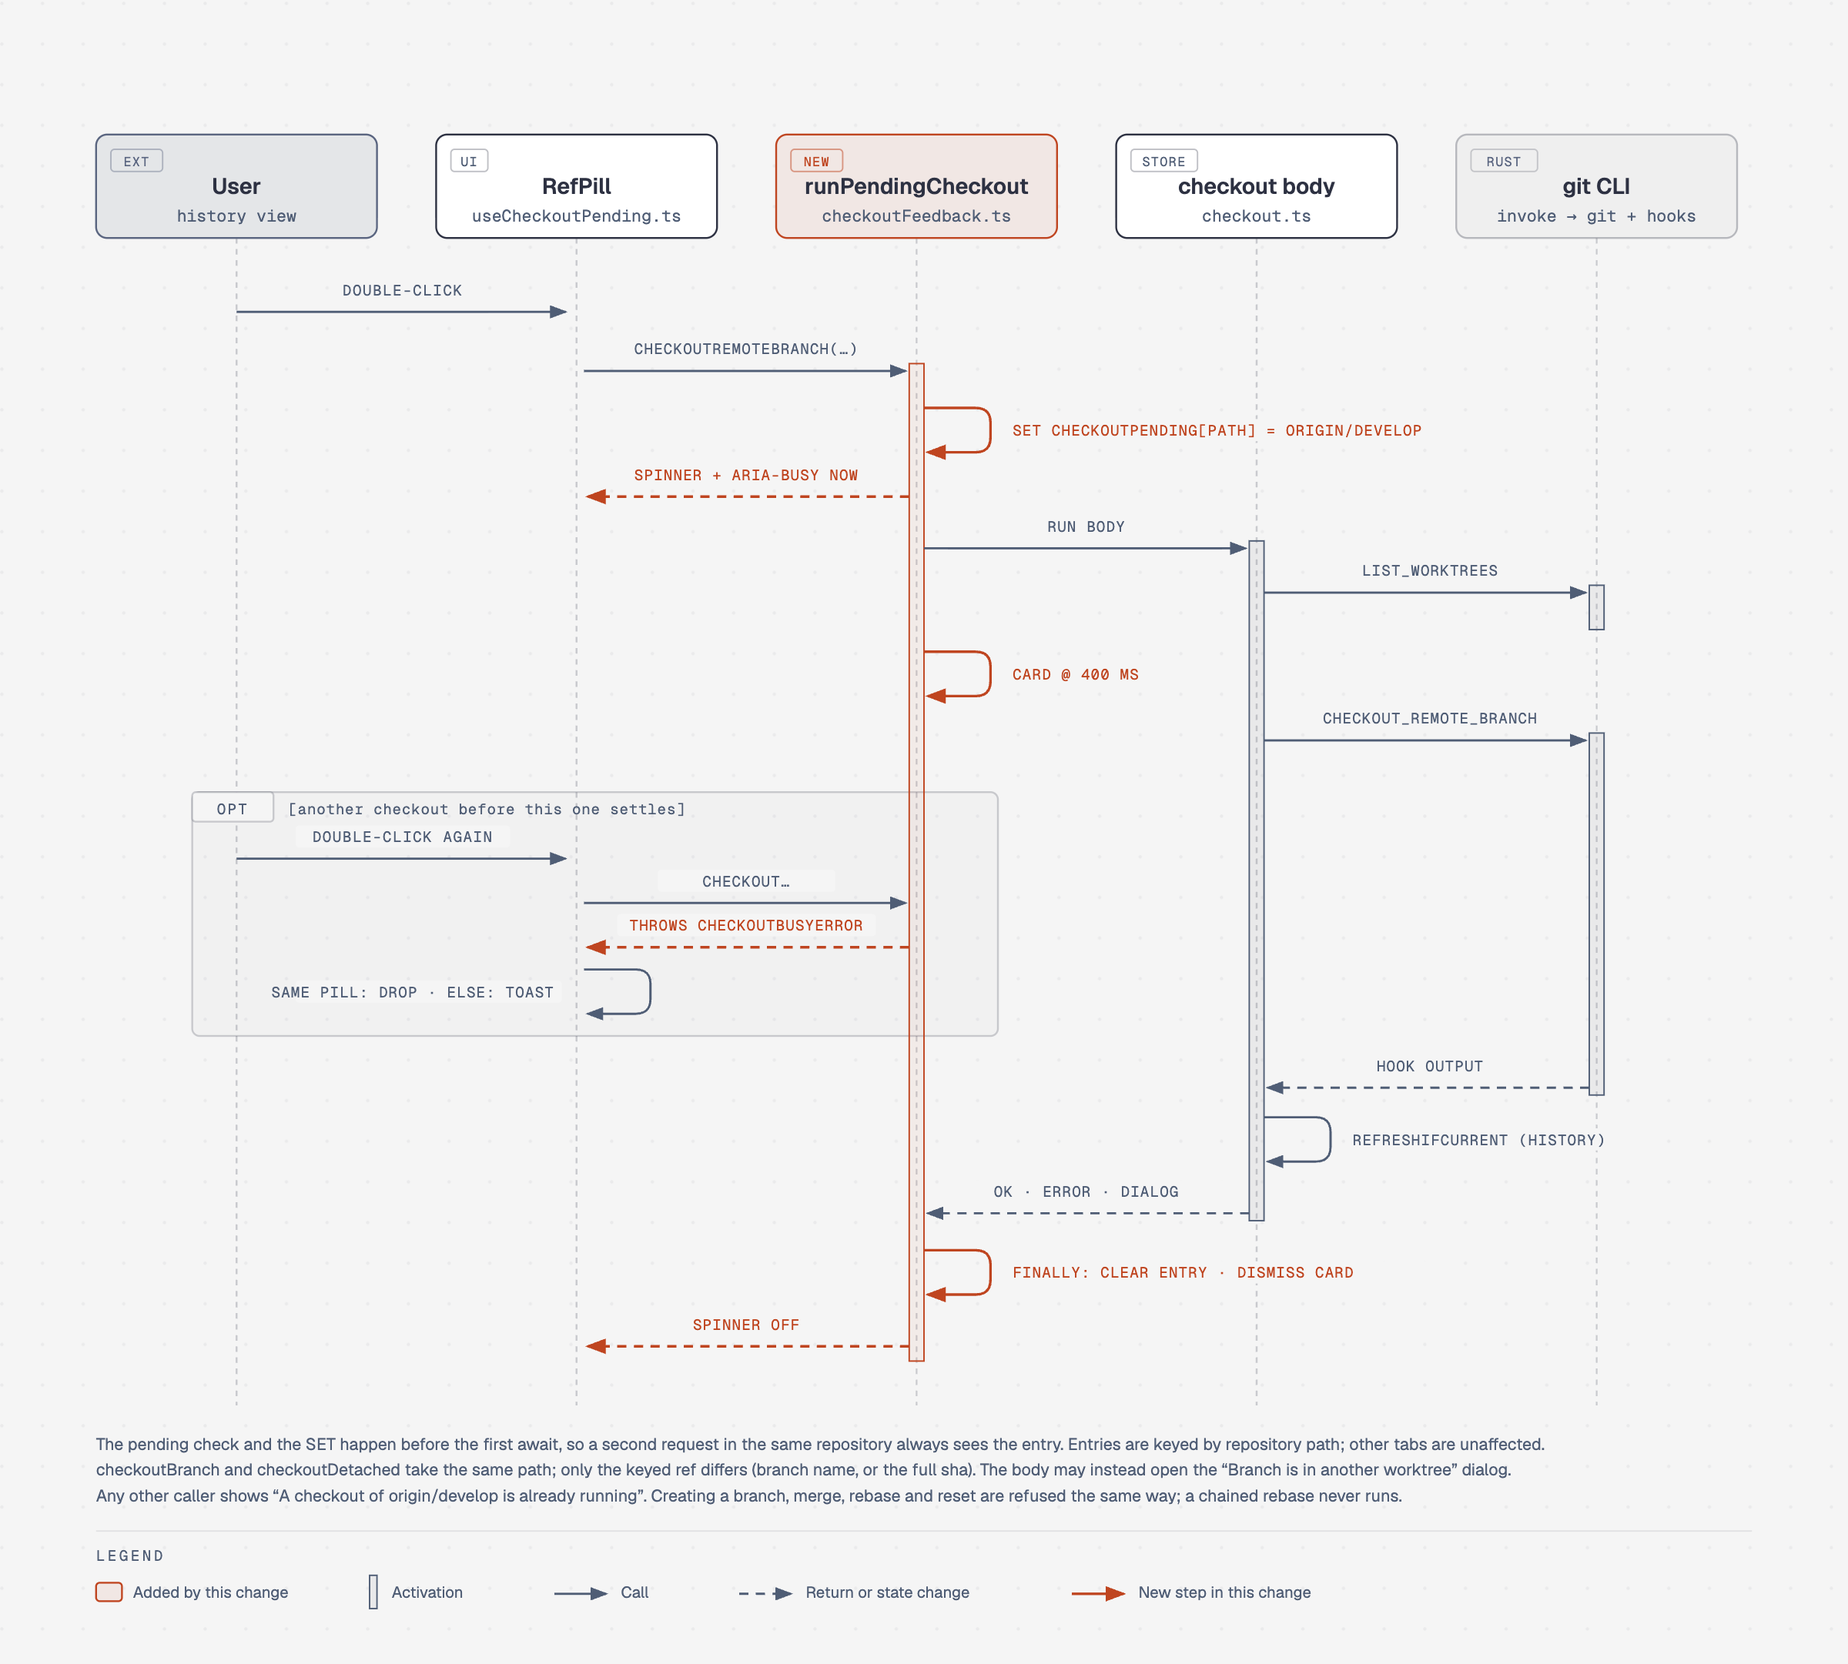
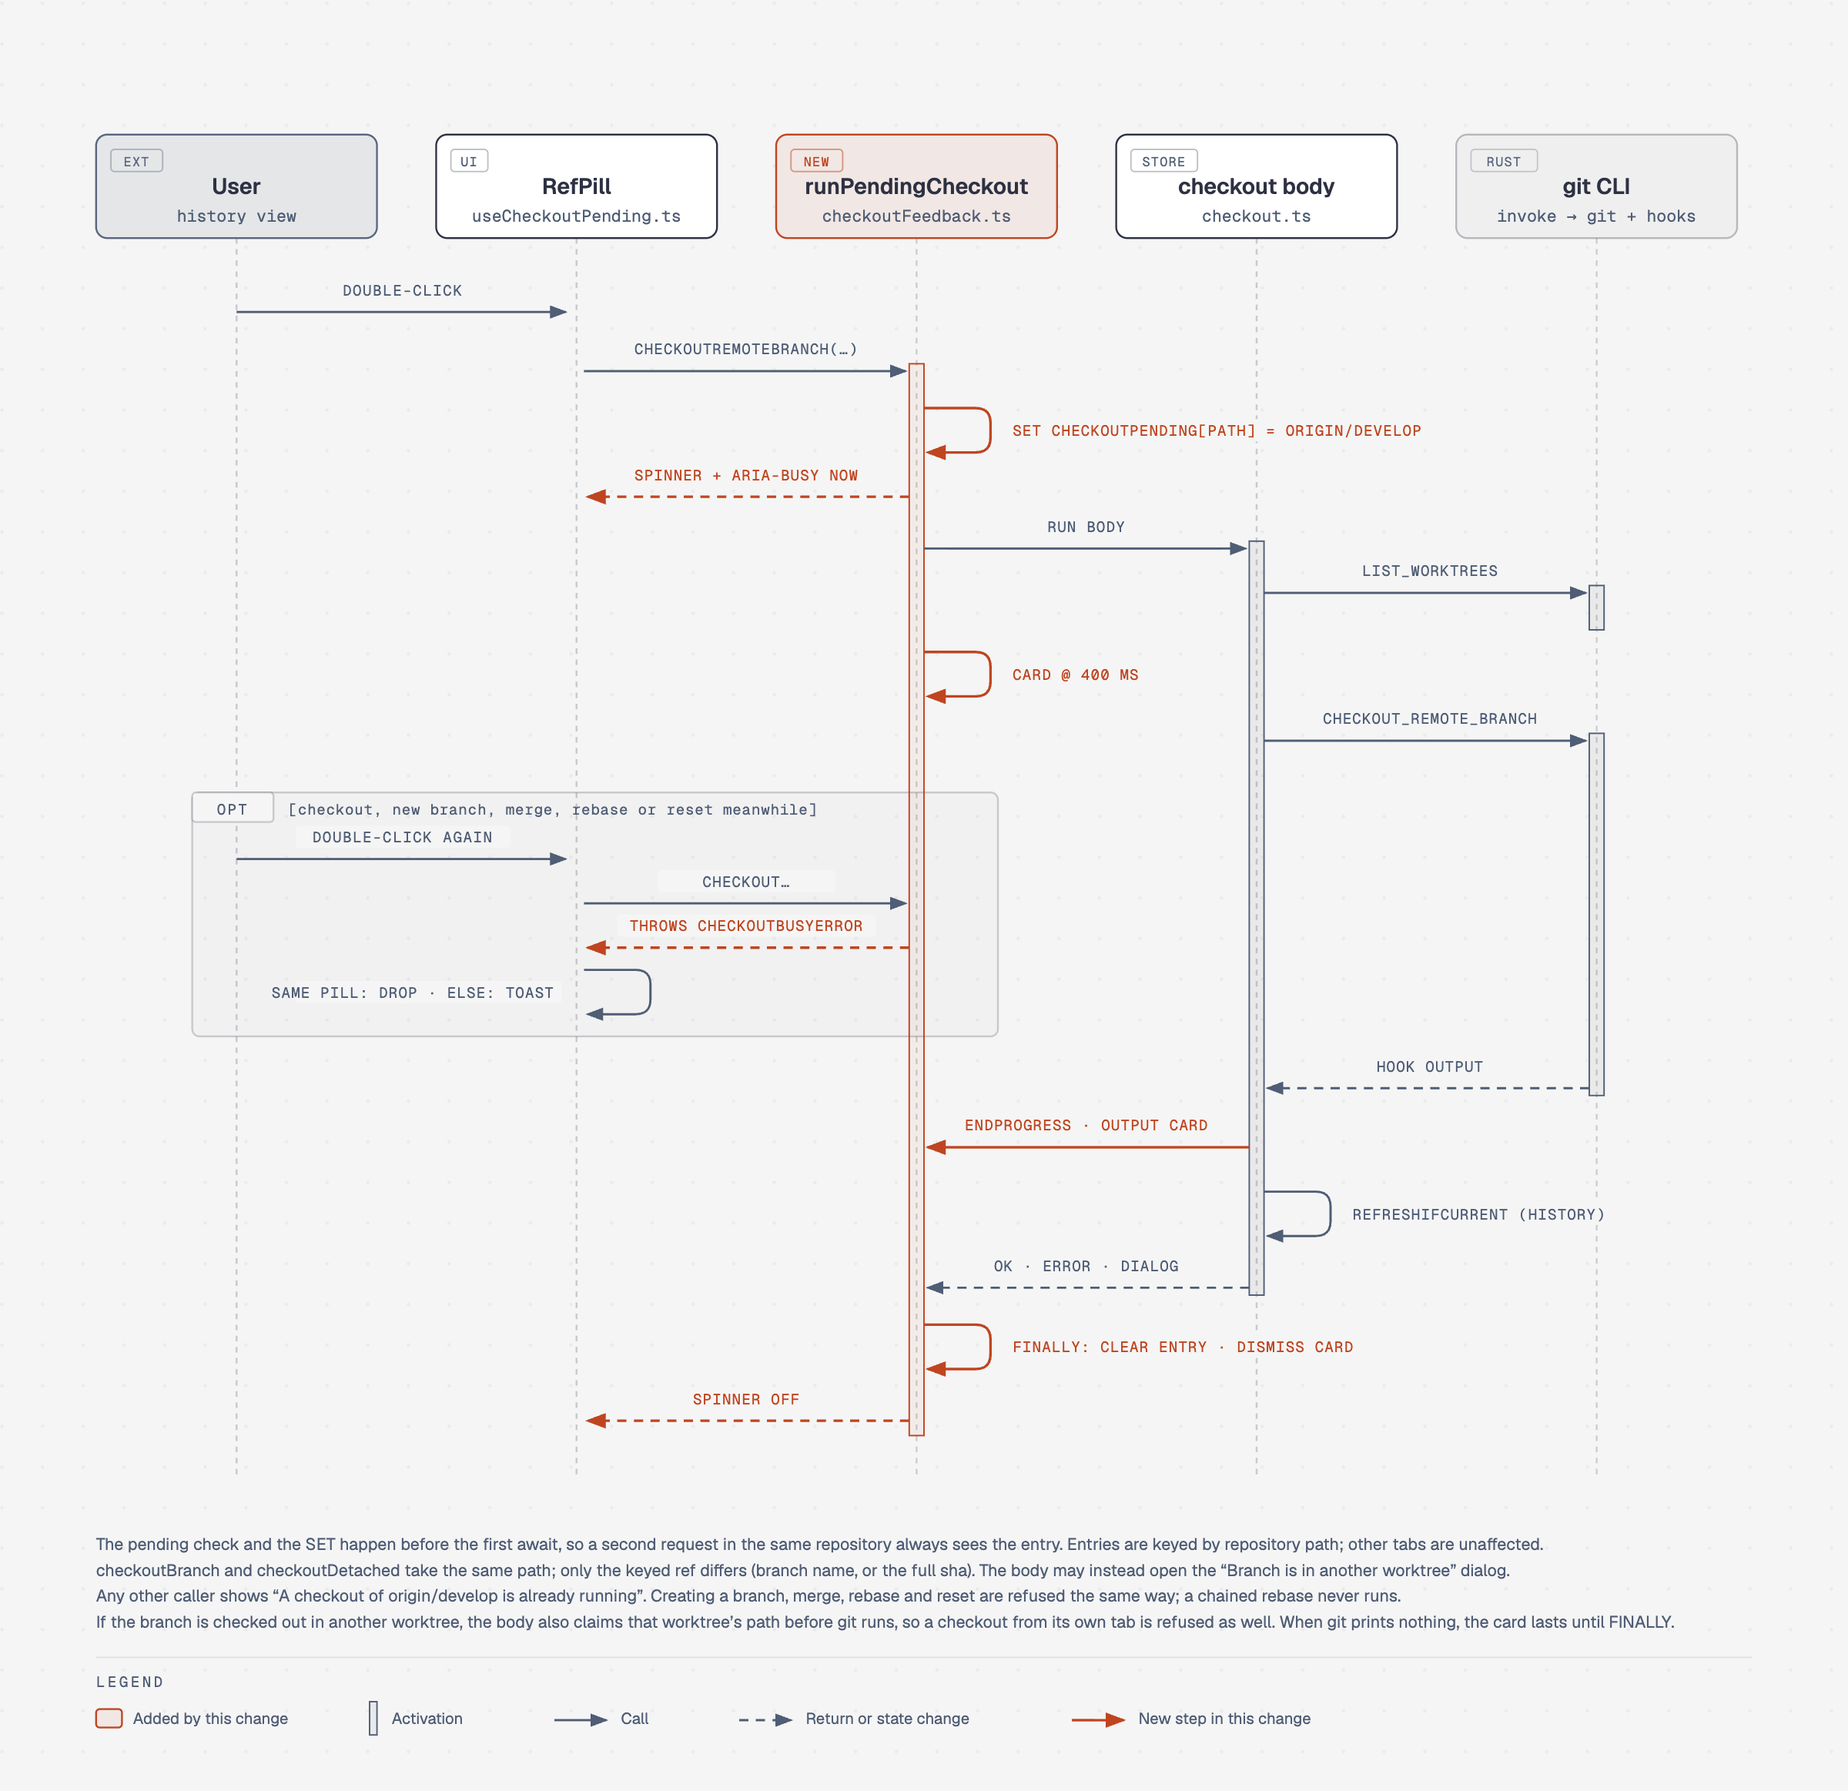
docs(diagrams): Draw the follow-up steps in the checkout sequence
The hook output now ends the progress card (endProgress), the busy
frame covers creating a branch, merge, rebase and reset, and a footnote
explains the claim on another worktree's path.

diff --git a/docs/diagrams/checkout-pending-feedback/checkout-sequence.html b/docs/diagrams/checkout-pending-feedback/checkout-sequence.html
@@ -59,9 +59,9 @@
     <h1>Checking out a ref, with a busy guard</h1>
 
     <div class="diagram-container">
-      <svg viewBox="0 0 1000 900" xmlns="http://www.w3.org/2000/svg" role="img" aria-labelledby="checkout-sequence-title checkout-sequence-desc">
+      <svg viewBox="0 0 1000 968" xmlns="http://www.w3.org/2000/svg" role="img" aria-labelledby="checkout-sequence-title checkout-sequence-desc">
         <title id="checkout-sequence-title">Checking out a ref, with a busy guard</title>
-        <desc id="checkout-sequence-desc">A double-click on a remote ref pill calls checkoutRemoteBranch, which goes through runPendingCheckout. It records the ref as pending for this repository, so the pill shows a spinner at once, and starts a progress card that appears after 400 ms. The checkout body then probes worktrees, runs git with its hooks, and refreshes the history. A second checkout request while this runs is refused with CheckoutBusyError: a repeat double-click on the same pill drops it, any other request shows which checkout is running. When the body settles, whether it succeeded, failed or opened the worktree dialog, a finally block clears the pending entry and dismisses the card, and the spinner goes away.</desc>
+        <desc id="checkout-sequence-desc">A double-click on a remote ref pill calls checkoutRemoteBranch, which goes through runPendingCheckout. It records the ref as pending for this repository, so the pill shows a spinner at once, and starts a progress card that appears after 400 ms. The checkout body then probes worktrees, runs git with its hooks, and refreshes the history. A second checkout request while this runs is refused with CheckoutBusyError: a repeat double-click on the same pill drops it, any other request shows which checkout is running. When git returns with hook output, the body ends the progress card and posts the output card. Creating a branch, merge, rebase and reset are refused the same way while it runs. When the body settles, whether it succeeded, failed or opened the worktree dialog, a finally block clears the pending entry and dismisses the card, and the spinner goes away.</desc>
         <defs>
           <pattern id="dots" width="22" height="22" patternUnits="userSpaceOnUse">
             <circle cx="1" cy="1" r="0.9" fill="rgba(45,49,66,0.10)"/>
@@ -74,21 +74,21 @@
         <rect width="100%" height="100%" fill="url(#dots)" opacity="0.55"/>
 
         <!-- LIFELINES: centers 128, 312, 496, 680, 864 -->
-        <line x1="128" y1="128" x2="128" y2="760" stroke="rgba(45,49,66,0.22)" stroke-width="1" stroke-dasharray="3,3"/>
-        <line x1="312" y1="128" x2="312" y2="760" stroke="rgba(45,49,66,0.22)" stroke-width="1" stroke-dasharray="3,3"/>
-        <line x1="496" y1="128" x2="496" y2="760" stroke="rgba(45,49,66,0.22)" stroke-width="1" stroke-dasharray="3,3"/>
-        <line x1="680" y1="128" x2="680" y2="760" stroke="rgba(45,49,66,0.22)" stroke-width="1" stroke-dasharray="3,3"/>
-        <line x1="864" y1="128" x2="864" y2="760" stroke="rgba(45,49,66,0.22)" stroke-width="1" stroke-dasharray="3,3"/>
+        <line x1="128" y1="128" x2="128" y2="800" stroke="rgba(45,49,66,0.22)" stroke-width="1" stroke-dasharray="3,3"/>
+        <line x1="312" y1="128" x2="312" y2="800" stroke="rgba(45,49,66,0.22)" stroke-width="1" stroke-dasharray="3,3"/>
+        <line x1="496" y1="128" x2="496" y2="800" stroke="rgba(45,49,66,0.22)" stroke-width="1" stroke-dasharray="3,3"/>
+        <line x1="680" y1="128" x2="680" y2="800" stroke="rgba(45,49,66,0.22)" stroke-width="1" stroke-dasharray="3,3"/>
+        <line x1="864" y1="128" x2="864" y2="800" stroke="rgba(45,49,66,0.22)" stroke-width="1" stroke-dasharray="3,3"/>
 
         <!-- FRAME: second request while pending -->
         <rect x="104" y="428" width="436" height="132" rx="4" fill="rgba(45,49,66,0.02)" stroke="rgba(45,49,66,0.22)" stroke-width="1"/>
         <rect x="104" y="428" width="44" height="16" rx="2" fill="#f5f5f5" stroke="rgba(45,49,66,0.22)" stroke-width="1"/>
         <text x="126" y="440" fill="#4f5d75" font-size="8" font-family="'Geist Mono', monospace" text-anchor="middle" letter-spacing="0.12em">OPT</text>
-        <text x="156" y="440" fill="#4f5d75" font-size="8" font-family="'Geist Mono', monospace" letter-spacing="0.04em">[another checkout before this one settles]</text>
+        <text x="156" y="440" fill="#4f5d75" font-size="8" font-family="'Geist Mono', monospace" letter-spacing="0.04em">[checkout, new branch, merge, rebase or reset meanwhile]</text>
 
         <!-- ACTIVATIONS -->
-        <rect x="492" y="196" width="8" height="540" fill="rgba(191,69,32,0.06)" stroke="#bf4520" stroke-width="0.8"/>
-        <rect x="676" y="292" width="8" height="368" fill="rgba(45,49,66,0.06)" stroke="#4f5d75" stroke-width="0.8"/>
+        <rect x="492" y="196" width="8" height="580" fill="rgba(191,69,32,0.06)" stroke="#bf4520" stroke-width="0.8"/>
+        <rect x="676" y="292" width="8" height="408" fill="rgba(45,49,66,0.06)" stroke="#4f5d75" stroke-width="0.8"/>
         <rect x="860" y="316" width="8" height="24" fill="rgba(45,49,66,0.06)" stroke="#4f5d75" stroke-width="0.8"/>
         <rect x="860" y="396" width="8" height="196" fill="rgba(45,49,66,0.06)" stroke="#4f5d75" stroke-width="0.8"/>
 
@@ -109,10 +109,12 @@
         <path d="M 316 524 L 344 524 Q 352 524 352 532 L 352 540 Q 352 548 344 548 L 318 548" fill="none" stroke="#4f5d75" stroke-width="1.2" marker-end="url(#arrow)"/>
 
         <line x1="860" y1="588" x2="686" y2="588" stroke="#4f5d75" stroke-width="1.2" stroke-dasharray="5,4" marker-end="url(#arrow)"/>
-        <path d="M 684 604 L 712 604 Q 720 604 720 612 L 720 620 Q 720 628 712 628 L 686 628" fill="none" stroke="#4f5d75" stroke-width="1.2" marker-end="url(#arrow)"/>
-        <line x1="676" y1="656" x2="502" y2="656" stroke="#4f5d75" stroke-width="1.2" stroke-dasharray="5,4" marker-end="url(#arrow)"/>
-        <path d="M 500 676 L 528 676 Q 536 676 536 684 L 536 692 Q 536 700 528 700 L 502 700" fill="none" stroke="#bf4520" stroke-width="1.4" marker-end="url(#arrow-accent)"/>
-        <line x1="492" y1="728" x2="318" y2="728" stroke="#bf4520" stroke-width="1.4" stroke-dasharray="5,4" marker-end="url(#arrow-accent)"/>
+        <!-- follow-up: hook output ends the progress card -->
+        <line x1="676" y1="620" x2="502" y2="620" stroke="#bf4520" stroke-width="1.4" marker-end="url(#arrow-accent)"/>
+        <path d="M 684 644 L 712 644 Q 720 644 720 652 L 720 660 Q 720 668 712 668 L 686 668" fill="none" stroke="#4f5d75" stroke-width="1.2" marker-end="url(#arrow)"/>
+        <line x1="676" y1="696" x2="502" y2="696" stroke="#4f5d75" stroke-width="1.2" stroke-dasharray="5,4" marker-end="url(#arrow)"/>
+        <path d="M 500 716 L 528 716 Q 536 716 536 724 L 536 732 Q 536 740 528 740 L 502 740" fill="none" stroke="#bf4520" stroke-width="1.4" marker-end="url(#arrow-accent)"/>
+        <line x1="492" y1="768" x2="318" y2="768" stroke="#bf4520" stroke-width="1.4" stroke-dasharray="5,4" marker-end="url(#arrow-accent)"/>
 
         <!-- MESSAGE LABELS (masked) -->
         <rect x="180" y="150" width="76" height="12" rx="2" fill="#f5f5f5"/>
@@ -151,20 +153,23 @@
         <rect x="160" y="530" width="144" height="12" rx="2" fill="#f5f5f5"/>
         <text x="300" y="539" fill="#4f5d75" font-size="8" font-family="'Geist Mono', monospace" text-anchor="end" letter-spacing="0.06em">SAME PILL: DROP · ELSE: TOAST</text>
 
+        <rect x="520" y="602" width="136" height="12" rx="2" fill="#f5f5f5"/>
+        <text x="588" y="611" fill="#bf4520" font-size="8" font-family="'Geist Mono', monospace" text-anchor="middle" letter-spacing="0.06em">ENDPROGRESS · OUTPUT CARD</text>
+
         <rect x="728" y="570" width="92" height="12" rx="2" fill="#f5f5f5"/>
         <text x="774" y="579" fill="#4f5d75" font-size="8" font-family="'Geist Mono', monospace" text-anchor="middle" letter-spacing="0.06em">HOOK OUTPUT</text>
 
-        <rect x="728" y="610" width="160" height="12" rx="2" fill="#f5f5f5"/>
-        <text x="732" y="619" fill="#4f5d75" font-size="8" font-family="'Geist Mono', monospace" letter-spacing="0.06em">REFRESHIFCURRENT (HISTORY)</text>
+        <rect x="728" y="650" width="160" height="12" rx="2" fill="#f5f5f5"/>
+        <text x="732" y="659" fill="#4f5d75" font-size="8" font-family="'Geist Mono', monospace" letter-spacing="0.06em">REFRESHIFCURRENT (HISTORY)</text>
 
-        <rect x="508" y="638" width="160" height="12" rx="2" fill="#f5f5f5"/>
-        <text x="588" y="647" fill="#4f5d75" font-size="8" font-family="'Geist Mono', monospace" text-anchor="middle" letter-spacing="0.06em">OK · ERROR · DIALOG</text>
+        <rect x="508" y="678" width="160" height="12" rx="2" fill="#f5f5f5"/>
+        <text x="588" y="687" fill="#4f5d75" font-size="8" font-family="'Geist Mono', monospace" text-anchor="middle" letter-spacing="0.06em">OK · ERROR · DIALOG</text>
 
-        <rect x="544" y="682" width="232" height="12" rx="2" fill="#f5f5f5"/>
-        <text x="548" y="691" fill="#bf4520" font-size="8" font-family="'Geist Mono', monospace" letter-spacing="0.06em">FINALLY: CLEAR ENTRY · DISMISS CARD</text>
+        <rect x="544" y="722" width="232" height="12" rx="2" fill="#f5f5f5"/>
+        <text x="548" y="731" fill="#bf4520" font-size="8" font-family="'Geist Mono', monospace" letter-spacing="0.06em">FINALLY: CLEAR ENTRY · DISMISS CARD</text>
 
-        <rect x="356" y="710" width="96" height="12" rx="2" fill="#f5f5f5"/>
-        <text x="404" y="719" fill="#bf4520" font-size="8" font-family="'Geist Mono', monospace" text-anchor="middle" letter-spacing="0.06em">SPINNER OFF</text>
+        <rect x="356" y="750" width="96" height="12" rx="2" fill="#f5f5f5"/>
+        <text x="404" y="759" fill="#bf4520" font-size="8" font-family="'Geist Mono', monospace" text-anchor="middle" letter-spacing="0.06em">SPINNER OFF</text>
 
         <!-- ACTORS -->
         <rect x="52" y="72" width="152" height="56" rx="6" fill="#f5f5f5"/>
@@ -203,23 +208,24 @@
         <text x="864" y="119" fill="#4f5d75" font-size="9" font-family="'Geist Mono', monospace" text-anchor="middle">invoke → git + hooks</text>
 
         <!-- FOOTNOTE -->
-        <text x="52" y="784" fill="#4f5d75" font-size="9" font-family="'Geist', sans-serif">The pending check and the SET happen before the first await, so a second request in the same repository always sees the entry. Entries are keyed by repository path; other tabs are unaffected.</text>
-        <text x="52" y="798" fill="#4f5d75" font-size="9" font-family="'Geist', sans-serif">checkoutBranch and checkoutDetached take the same path; only the keyed ref differs (branch name, or the full sha). The body may instead open the “Branch is in another worktree” dialog.</text>
-        <text x="52" y="812" fill="#4f5d75" font-size="9" font-family="'Geist', sans-serif">Any other caller shows “A checkout of origin/develop is already running”. Creating a branch, merge, rebase and reset are refused the same way; a chained rebase never runs.</text>
+        <text x="52" y="838" fill="#4f5d75" font-size="9" font-family="'Geist', sans-serif">The pending check and the SET happen before the first await, so a second request in the same repository always sees the entry. Entries are keyed by repository path; other tabs are unaffected.</text>
+        <text x="52" y="852" fill="#4f5d75" font-size="9" font-family="'Geist', sans-serif">checkoutBranch and checkoutDetached take the same path; only the keyed ref differs (branch name, or the full sha). The body may instead open the “Branch is in another worktree” dialog.</text>
+        <text x="52" y="866" fill="#4f5d75" font-size="9" font-family="'Geist', sans-serif">Any other caller shows “A checkout of origin/develop is already running”. Creating a branch, merge, rebase and reset are refused the same way; a chained rebase never runs.</text>
+        <text x="52" y="880" fill="#4f5d75" font-size="9" font-family="'Geist', sans-serif">If the branch is checked out in another worktree, the body also claims that worktree’s path before git runs, so a checkout from its own tab is refused as well. When git prints nothing, the card lasts until FINALLY.</text>
 
         <!-- LEGEND -->
-        <line x1="52" y1="828" x2="948" y2="828" stroke="rgba(45,49,66,0.10)" stroke-width="0.8"/>
-        <text x="52" y="844" fill="#4f5d75" font-size="8" font-family="'Geist Mono', monospace" letter-spacing="0.18em">LEGEND</text>
-        <rect x="52" y="856" width="14" height="10" rx="2" fill="rgba(191,69,32,0.08)" stroke="#bf4520" stroke-width="1"/>
-        <text x="72" y="864" fill="#4f5d75" font-size="8.5" font-family="'Geist', sans-serif">Added by this change</text>
-        <rect x="200" y="852" width="4" height="18" fill="rgba(45,49,66,0.06)" stroke="#4f5d75" stroke-width="0.8"/>
-        <text x="212" y="864" fill="#4f5d75" font-size="8.5" font-family="'Geist', sans-serif">Activation</text>
-        <line x1="300" y1="862" x2="328" y2="862" stroke="#4f5d75" stroke-width="1.2" marker-end="url(#arrow)"/>
-        <text x="336" y="864" fill="#4f5d75" font-size="8.5" font-family="'Geist', sans-serif">Call</text>
-        <line x1="400" y1="862" x2="428" y2="862" stroke="#4f5d75" stroke-width="1.2" stroke-dasharray="5,4" marker-end="url(#arrow)"/>
-        <text x="436" y="864" fill="#4f5d75" font-size="8.5" font-family="'Geist', sans-serif">Return or state change</text>
-        <line x1="580" y1="862" x2="608" y2="862" stroke="#bf4520" stroke-width="1.4" marker-end="url(#arrow-accent)"/>
-        <text x="616" y="864" fill="#4f5d75" font-size="8.5" font-family="'Geist', sans-serif">New step in this change</text>
+        <line x1="52" y1="896" x2="948" y2="896" stroke="rgba(45,49,66,0.10)" stroke-width="0.8"/>
+        <text x="52" y="912" fill="#4f5d75" font-size="8" font-family="'Geist Mono', monospace" letter-spacing="0.18em">LEGEND</text>
+        <rect x="52" y="924" width="14" height="10" rx="2" fill="rgba(191,69,32,0.08)" stroke="#bf4520" stroke-width="1"/>
+        <text x="72" y="932" fill="#4f5d75" font-size="8.5" font-family="'Geist', sans-serif">Added by this change</text>
+        <rect x="200" y="920" width="4" height="18" fill="rgba(45,49,66,0.06)" stroke="#4f5d75" stroke-width="0.8"/>
+        <text x="212" y="932" fill="#4f5d75" font-size="8.5" font-family="'Geist', sans-serif">Activation</text>
+        <line x1="300" y1="930" x2="328" y2="930" stroke="#4f5d75" stroke-width="1.2" marker-end="url(#arrow)"/>
+        <text x="336" y="932" fill="#4f5d75" font-size="8.5" font-family="'Geist', sans-serif">Call</text>
+        <line x1="400" y1="930" x2="428" y2="930" stroke="#4f5d75" stroke-width="1.2" stroke-dasharray="5,4" marker-end="url(#arrow)"/>
+        <text x="436" y="932" fill="#4f5d75" font-size="8.5" font-family="'Geist', sans-serif">Return or state change</text>
+        <line x1="580" y1="930" x2="608" y2="930" stroke="#bf4520" stroke-width="1.4" marker-end="url(#arrow-accent)"/>
+        <text x="616" y="932" fill="#4f5d75" font-size="8.5" font-family="'Geist', sans-serif">New step in this change</text>
       </svg>
     </div>
   </div>
